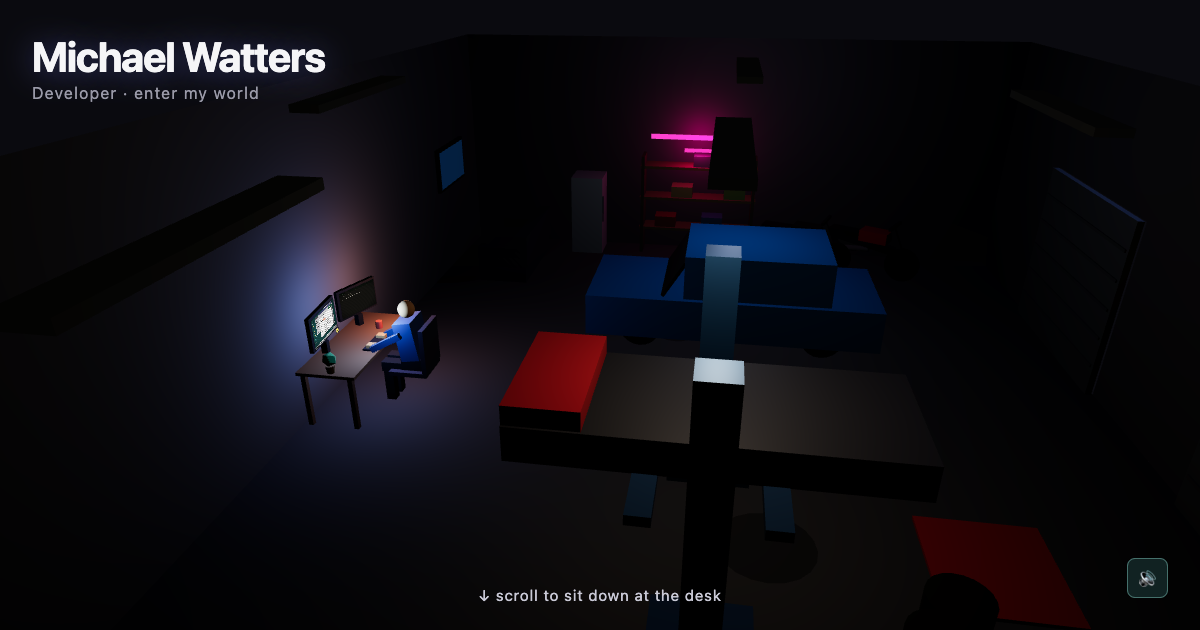
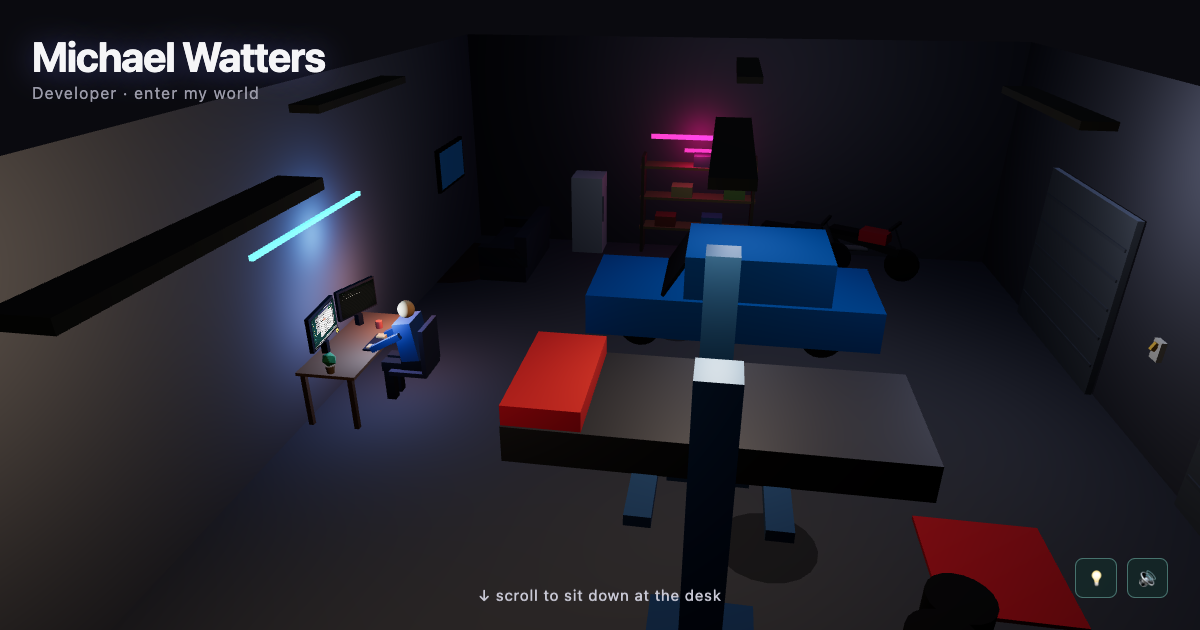
Light switch + LED bias strip + properly lit workshop
- Wall light switch on the pillar between the doors — click it in any
  mode (raycast bridge), or press L, or the 💡 button; toggles between
  bright workshop and moody night mode (monitors + neon only)
- Cool-blue LED bias strip above the monitors washing the back wall
  (always on — part of the desk's identity)
- Lights-on made decisively brighter: hemisphere 0.85, stronger bay
  pools (10/8), two more live fixtures; og card regenerated

diff --git a/src/Room.jsx b/src/Room.jsx
@@ -396,7 +396,8 @@ const D = maxZ - minZ
 const CX = (minX + maxX) / 2
 const CZ = (minZ + maxZ) / 2
 
-export default function Room({ mode = 'desk', onZoom }) {
+export default function Room({ mode = 'desk', onZoom, lights = true, onToggleLights }) {
+  const switchRef = useRef()
   return (
     <group>
       {/* --- Shell --- */}
@@ -468,9 +469,9 @@ export default function Room({ mode = 'desk', onZoom }) {
       {[
         { p: [LIFT.x, 3.9, LIFT.z], lit: true, warm: true },
         { p: [CIVIC.pos[0], 3.9, 2.2], lit: true, warm: false },
-        { p: [0, 3.9, -2.2], lit: false },
-        { p: [0, 3.9, 5.2], lit: false },
-        { p: [-4.8, 3.9, -0.8], lit: false },
+        { p: [0, 3.9, -2.2], lit: false }, // off over the desk — monitors own it
+        { p: [0.3, 3.9, 5.2], lit: true, warm: false },
+        { p: [-4.8, 3.9, -0.8], lit: true, warm: true },
       ].map((f, i) => (
         <group key={i}>
           {/* dark housing — no glare when seen from above */}
@@ -478,7 +479,7 @@ export default function Room({ mode = 'desk', onZoom }) {
             <boxGeometry args={[2.2, 0.08, 0.32]} />
             <meshStandardMaterial color="#26262a" emissive="#3a3a34" emissiveIntensity={0.12} />
           </mesh>
-          {f.lit && (
+          {f.lit && lights && (
             <>
               {/* downward-facing glow panel */}
               <mesh position={[f.p[0], f.p[1] - 0.05, f.p[2]]} rotation-x={Math.PI / 2}>
@@ -492,7 +493,7 @@ export default function Room({ mode = 'desk', onZoom }) {
               </mesh>
               <pointLight
                 position={[f.p[0], f.p[1] - 0.4, f.p[2]]}
-                intensity={f.warm ? 6 : 4.5}
+                intensity={f.warm ? 10 : 8}
                 distance={11}
                 decay={2}
                 color={f.warm ? '#ffe9c4' : '#dfe8ff'}
@@ -514,6 +515,31 @@ export default function Room({ mode = 'desk', onZoom }) {
         </mesh>
       ))}
 
+      {/* Wall switch on the pillar between the doors — click it (any mode) */}
+      <group position={[0.3, 1.25, maxZ - 0.08]}>
+        <mesh ref={switchRef}>
+          <boxGeometry args={[0.16, 0.24, 0.06]} />
+          <meshStandardMaterial color="#d8d4c8" />
+        </mesh>
+        {/* toggle nub flips with the state */}
+        <mesh position={[0, lights ? 0.04 : -0.04, -0.05]} rotation-x={lights ? 0.4 : -0.4}>
+          <boxGeometry args={[0.05, 0.1, 0.05]} />
+          <meshStandardMaterial color={lights ? '#e8b84a' : '#555a60'} />
+        </mesh>
+      </group>
+
+      {/* LED bias strip above the monitors — washes the back wall (always on) */}
+      <mesh position={[0, 2.35, -2.97]}>
+        <boxGeometry args={[2.6, 0.06, 0.05]} />
+        <meshStandardMaterial
+          color="#55aaff"
+          emissive="#55aaff"
+          emissiveIntensity={2.4}
+          toneMapped={false}
+        />
+      </mesh>
+      <pointLight position={[0, 2.2, -2.6]} intensity={2.8} color="#55aaff" distance={5} decay={2} />
+
       {/* --- Office corner (unchanged coordinates) --- */}
       <mesh position={[0, 0.72, -2.6]} castShadow receiveShadow>
         <boxGeometry args={[1.8, 0.04, 0.75]} />
@@ -525,7 +551,7 @@ export default function Room({ mode = 'desk', onZoom }) {
           <meshStandardMaterial color="#5f4633" />
         </mesh>
       ))}
-      <Monitors mode={mode} onZoom={onZoom} />
+      <Monitors mode={mode} onZoom={onZoom} switchRef={switchRef} onToggleLights={onToggleLights} />
       <mesh position={[0, 0.75, -2.35]} castShadow>
         <boxGeometry args={[0.45, 0.03, 0.15]} />
         <meshStandardMaterial color="#20202a" />

diff --git a/src/App.jsx b/src/App.jsx
@@ -8,7 +8,7 @@ import Joystick from './Joystick'
 import { clickDown, startRoomTone, setMuted, isMuted } from './sfx'
 import { IS_TOUCH } from './touch'
 
-function Scene({ hintRef, mode, onSeated, onNearSeat, onSit, view, zoom, onZoom, onZoomExit, joyRef }) {
+function Scene({ hintRef, mode, onSeated, onNearSeat, onSit, view, zoom, onZoom, onZoomExit, joyRef, lights, onToggleLights }) {
   return (
     <>
       {/* No scene background: the canvas stays TRANSPARENT so the screen UIs
@@ -16,16 +16,16 @@ function Scene({ hintRef, mode, onSeated, onNearSeat, onSit, view, zoom, onZoom,
           The page CSS supplies the same #0a0a0f behind everything. */}
       <fog attach="fog" args={['#0a0a0f', 12, 30]} />
 
-      {/* NIGHT WORKSHOP — monitors light the desk, work lights over the bays,
-          neon in the cave corner. Fill raised a touch for the bigger room. */}
-      <hemisphereLight intensity={0.24} color="#2e3a55" groundColor="#14141a" />
-      <directionalLight position={[6, 2.5, 3]} intensity={0.15} color="#5a6a9a" />
+      {/* WORKSHOP LIGHTING — the wall switch (or L / 💡) toggles between
+          "lights on" and moody night mode (monitors + neon only). */}
+      <hemisphereLight intensity={lights ? 0.85 : 0.2} color="#3e4a66" groundColor="#1e1e26" />
+      <directionalLight position={[6, 5, 3]} intensity={lights ? 0.6 : 0.14} color="#7a86a8" />
       {/* primary monitor glow (cool) */}
       <pointLight position={[-0.33, 1.35, -2.15]} intensity={3.5} color="#7fb3ff" distance={5.5} decay={2} />
       {/* terminal glow (warm terracotta) */}
       <pointLight position={[0.5, 1.3, -2.15]} intensity={2.2} color="#ffab7a" distance={4.5} decay={2} />
       {/* No Environment IBL — it floods the night scene with daylight. */}
-      <Room mode={mode} onZoom={onZoom} />
+      <Room mode={mode} onZoom={onZoom} lights={lights} onToggleLights={onToggleLights} />
       {mode === 'desk' && (
         <CameraRig hintRef={hintRef} onSeated={onSeated} zoom={zoom} onZoomExit={onZoomExit} />
       )}
@@ -45,6 +45,21 @@ export default function App() {
   const [view, setView] = useState('first') // 'first' | 'third' (explore camera)
   const [zoomScreen, setZoomScreen] = useState(null) // null | 'A' | 'B'
   const [muted, setMutedUI] = useState(false)
+  const [lights, setLights] = useState(true) // workshop lights on by default
+
+  const toggleLights = () => {
+    clickDown() // satisfying switch clack
+    setLights((l) => !l)
+  }
+
+  // L toggles the workshop lights from anywhere.
+  useEffect(() => {
+    const onKey = (e) => {
+      if (e.code === 'KeyL' && !window.__termTyping) toggleLights()
+    }
+    window.addEventListener('keydown', onKey)
+    return () => window.removeEventListener('keydown', onKey)
+  }, [])
 
   // Ambient room tone starts on the first user gesture (autoplay policy).
   useEffect(() => {
@@ -124,6 +139,8 @@ export default function App() {
             onZoom={zoomToggle}
             onZoomExit={() => setZoomScreen(null)}
             joyRef={joyRef}
+            lights={lights}
+            onToggleLights={toggleLights}
           />
         </ScrollControls>
       </Canvas>
@@ -131,6 +148,9 @@ export default function App() {
       {/* DOM overlays */}
       <button className="ctl ctl-mute" onClick={toggleMute} title="toggle sound">
         {muted ? '🔇' : '🔊'}
+      </button>
+      <button className="ctl ctl-lights" onClick={toggleLights} title="toggle lights (L)">
+        {lights ? '💡' : '🌙'}
       </button>
       {mode === 'desk' && (
         <>

diff --git a/src/Monitors.jsx b/src/Monitors.jsx
@@ -241,7 +241,7 @@ function TerminalScreen({ mon, active, focused, onFocusClick }) {
   )
 }
 
-export default function Monitors({ mode = 'desk', onZoom }) {
+export default function Monitors({ mode = 'desk', onZoom, switchRef, onToggleLights }) {
   const screenA = useRef()
   const screenB = useRef()
   const curA = useRef()
@@ -278,6 +278,10 @@ export default function Monitors({ mode = 'desk', onZoom }) {
   const lastDownRef = useRef({ screen: null, t: 0, bg: false }) // dbl-click detect
   const onZoomRef = useRef(onZoom)
   onZoomRef.current = onZoom
+  const switchMeshRef = useRef(null)
+  switchMeshRef.current = switchRef?.current || null
+  const onToggleLightsRef = useRef(onToggleLights)
+  onToggleLightsRef.current = onToggleLights
 
   useEffect(() => {
     const raycaster = new THREE.Raycaster()
@@ -343,6 +347,18 @@ export default function Monitors({ mode = 'desk', onZoom }) {
       // Refresh the hit from THIS event's coordinates — on touch there's no
       // hover history, the tap itself carries the position.
       move(e)
+
+      // The wall light switch is clickable in ANY mode.
+      const sw = switchMeshRef.current
+      if (sw) {
+        ndc.set((e.clientX / window.innerWidth) * 2 - 1, -(e.clientY / window.innerHeight) * 2 + 1)
+        raycaster.setFromCamera(ndc, camera)
+        if (raycaster.intersectObject(sw, false).length) {
+          onToggleLightsRef.current?.()
+          return
+        }
+      }
+
       const p = posRef.current
       if (!p.screen) return
       clickDown()

diff --git a/src/index.css b/src/index.css
@@ -587,6 +587,11 @@ body {
   right: 2rem;
   padding: 0.5rem 0.7rem;
 }
+.ctl-lights {
+  bottom: 2rem;
+  right: 5.2rem;
+  padding: 0.5rem 0.7rem;
+}
 
 /* Virtual joystick (touch explore mode) */
 .joystick {
